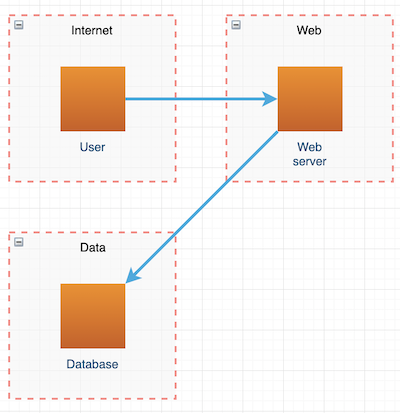
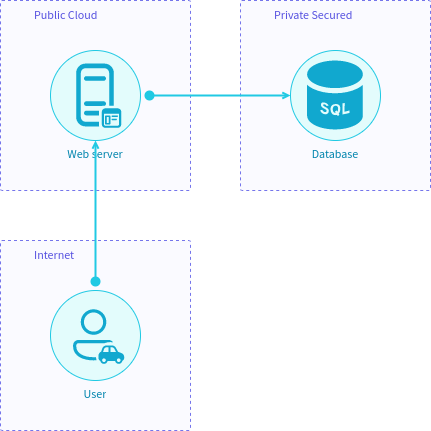
[BLZ-294] 'Cloudformation' Readme section review on OTM example

diff --git a/README.md b/README.md
@@ -154,21 +154,21 @@ startleft run --type cloudformation --map defaults_map.yaml --map cloudformation
 Note: with `threatmodel` or `run` commands it is mandatory to include the IriusRisk API token and IriusRisk URL via environment variables or as command-line arguments, as shown in [Command Line Client](#command-line-client). 
 ### ELB with a WAF
 
-This example can be run in the same way, but this Cloudformation also includes a WAF and dataflow.
+This example can be run in the same way, but this Cloudformation also includes a WAF.
 
-Parsing the Cloudformation template file.
+Parsing the Cloudformation template file:
 
 ```
 startleft parse --type cloudformation --otm elb-with-waf.otm --name "CFT ELB With Waf" --id "cft-elb-with-waf" elb-with-waf.json
 ```
 
-Uploading OTM file to IriusRisk.
+Uploading OTM file to IriusRisk:
 
 ```
 startleft threatmodel --recreate elb-with-waf.otm
 ```
 
-Or both commands in one step.
+Or both commands in one step:
 
 ```
 startleft run --type cloudformation --otm elb-with-waf.otm --name "CFT ELB With Waf" --id "cft-elb-with-waf" --recreate elb-with-waf.json
@@ -187,49 +187,55 @@ startleft run --type hcl2 --map defaults_map.yaml --map terraform_aws_map.yaml -
 You can also write an OTM file without parsing any IaC source files. This is useful if you want to create a threat model in your IDE and have the diagram etc. generated for you. For example, the following short OTM file:
 
 ```
+otmVersion: 0.1.0
+
 project:
   name: Manual ThreatModel
   id:   manual-threatmodel
 
-trustzones:
-  - id:   internet
+trustZones:
+  - id:   f0ba7722-39b6-4c81-8290-a30a248bb8d9
     name: Internet
-    type: internet
+    risk:
+      trustRating: 1
 
-  - id:   web
-    name: Web
-    type: private
+  - id:   b61d6911-338d-46a8-9f39-8dcd24abfe91
+    name: Public Cloud
+    risk:
+      trustRating: 60
 
-  - id:   data
-    name: Data
-    type: private
+  - id:   2ab4effa-40b7-4cd2-ba81-8247d29a6f2d
+    name: Private Secured
+    risk:
+      trustRating: 100
 
 components:
   - id:     user
     name:   User
-    type:   user
-    parent: internet
+    type:   end-user
+    parent:
+      trustZone: f0ba7722-39b6-4c81-8290-a30a248bb8d9
 
   - id:     web-server
     name:   Web server
-    type:   webapp
-    parent: web
+    type:   web-application-server-side
+    parent:
+      trustZone: b61d6911-338d-46a8-9f39-8dcd24abfe91
 
   - id:     database
     name:   Database
-    type:   postgres
-    parent: data
+    type:   other-sql-database
+    parent:
+      trustZone: 2ab4effa-40b7-4cd2-ba81-8247d29a6f2d
 
 dataflows:
   - id:     client-connection
     name:   Client connection
-    type:   network
     source:   user
-    destination:     web-server
+    destination:   web-server
 
   - id:     database-connection
     name:   Database connection
-    type:   network
     source:   web-server
     destination:     database
 ```
